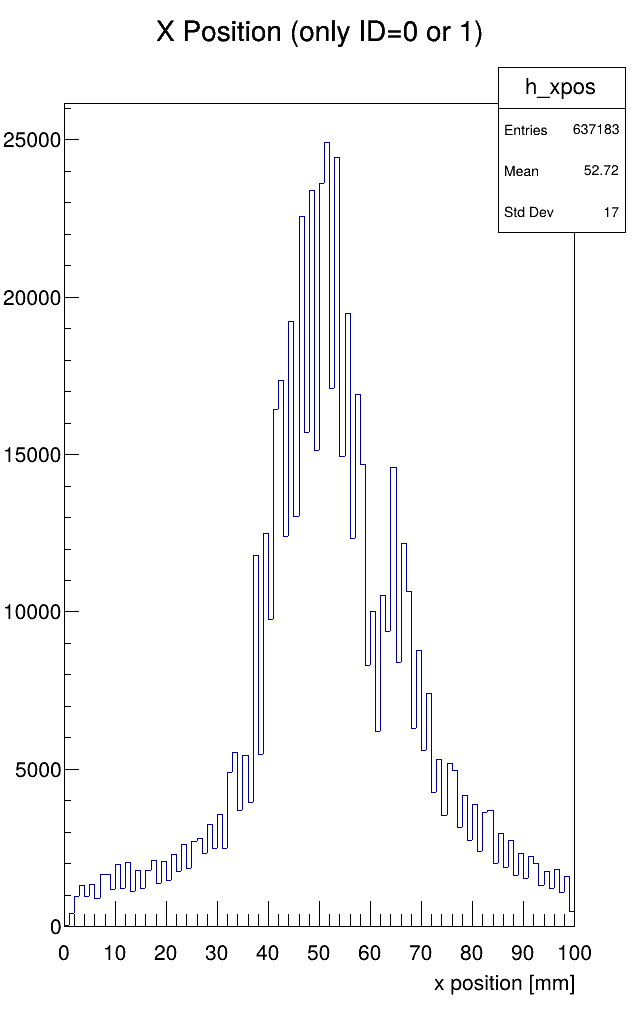
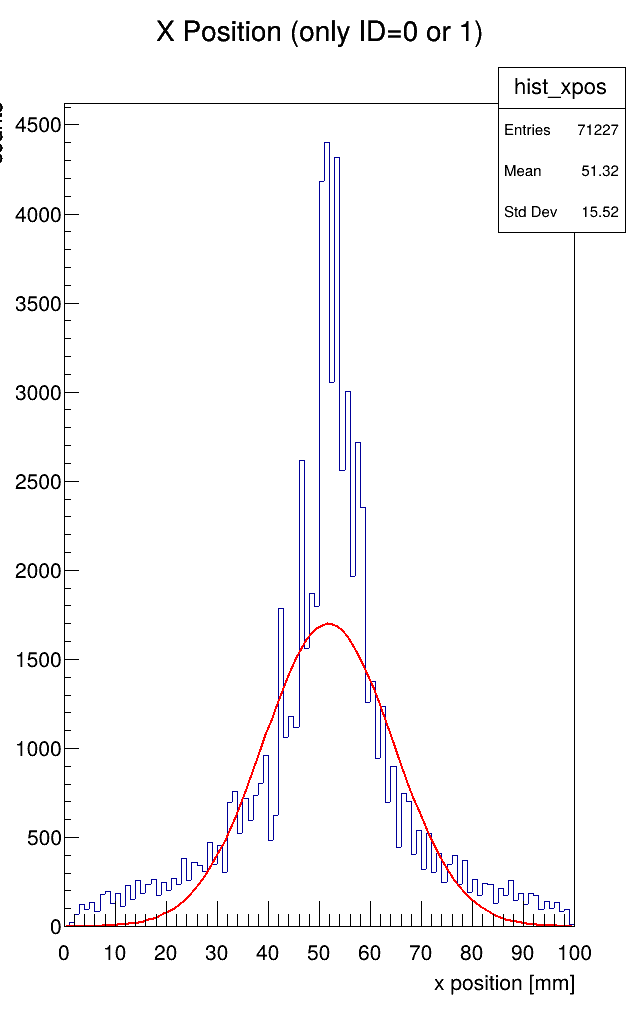
first results (maybe)

diff --git a/plot/output.tex b/plot/output.tex
@@ -1,0 +1,140 @@
+% GNUPLOT: LaTeX picture with Postscript
+\begingroup
+  \makeatletter
+  \providecommand\color[2][]{%
+    \GenericError{(gnuplot) \space\space\space\@spaces}{%
+      Package color not loaded in conjunction with
+      terminal option `colourtext'%
+    }{See the gnuplot documentation for explanation.%
+    }{Either use 'blacktext' in gnuplot or load the package
+      color.sty in LaTeX.}%
+    \renewcommand\color[2][]{}%
+  }%
+  \providecommand\includegraphics[2][]{%
+    \GenericError{(gnuplot) \space\space\space\@spaces}{%
+      Package graphicx or graphics not loaded%
+    }{See the gnuplot documentation for explanation.%
+    }{The gnuplot epslatex terminal needs graphicx.sty or graphics.sty.}%
+    \renewcommand\includegraphics[2][]{}%
+  }%
+  \providecommand\rotatebox[2]{#2}%
+  \@ifundefined{ifGPcolor}{%
+    \newif\ifGPcolor
+    \GPcolortrue
+  }{}%
+  \@ifundefined{ifGPblacktext}{%
+    \newif\ifGPblacktext
+    \GPblacktexttrue
+  }{}%
+  % define a \g@addto@macro without @ in the name:
+  \let\gplgaddtomacro\g@addto@macro
+  % define empty templates for all commands taking text:
+  \gdef\gplbacktext{}%
+  \gdef\gplfronttext{}%
+  \makeatother
+  \ifGPblacktext
+    % no textcolor at all
+    \def\colorrgb#1{}%
+    \def\colorgray#1{}%
+  \else
+    % gray or color?
+    \ifGPcolor
+      \def\colorrgb#1{\color[rgb]{#1}}%
+      \def\colorgray#1{\color[gray]{#1}}%
+      \expandafter\def\csname LTw\endcsname{\color{white}}%
+      \expandafter\def\csname LTb\endcsname{\color{black}}%
+      \expandafter\def\csname LTa\endcsname{\color{black}}%
+      \expandafter\def\csname LT0\endcsname{\color[rgb]{1,0,0}}%
+      \expandafter\def\csname LT1\endcsname{\color[rgb]{0,1,0}}%
+      \expandafter\def\csname LT2\endcsname{\color[rgb]{0,0,1}}%
+      \expandafter\def\csname LT3\endcsname{\color[rgb]{1,0,1}}%
+      \expandafter\def\csname LT4\endcsname{\color[rgb]{0,1,1}}%
+      \expandafter\def\csname LT5\endcsname{\color[rgb]{1,1,0}}%
+      \expandafter\def\csname LT6\endcsname{\color[rgb]{0,0,0}}%
+      \expandafter\def\csname LT7\endcsname{\color[rgb]{1,0.3,0}}%
+      \expandafter\def\csname LT8\endcsname{\color[rgb]{0.5,0.5,0.5}}%
+    \else
+      % gray
+      \def\colorrgb#1{\color{black}}%
+      \def\colorgray#1{\color[gray]{#1}}%
+      \expandafter\def\csname LTw\endcsname{\color{white}}%
+      \expandafter\def\csname LTb\endcsname{\color{black}}%
+      \expandafter\def\csname LTa\endcsname{\color{black}}%
+      \expandafter\def\csname LT0\endcsname{\color{black}}%
+      \expandafter\def\csname LT1\endcsname{\color{black}}%
+      \expandafter\def\csname LT2\endcsname{\color{black}}%
+      \expandafter\def\csname LT3\endcsname{\color{black}}%
+      \expandafter\def\csname LT4\endcsname{\color{black}}%
+      \expandafter\def\csname LT5\endcsname{\color{black}}%
+      \expandafter\def\csname LT6\endcsname{\color{black}}%
+      \expandafter\def\csname LT7\endcsname{\color{black}}%
+      \expandafter\def\csname LT8\endcsname{\color{black}}%
+    \fi
+  \fi
+    \setlength{\unitlength}{0.0500bp}%
+    \ifx\gptboxheight\undefined%
+      \newlength{\gptboxheight}%
+      \newlength{\gptboxwidth}%
+      \newsavebox{\gptboxtext}%
+    \fi%
+    \setlength{\fboxrule}{0.5pt}%
+    \setlength{\fboxsep}{1pt}%
+    \definecolor{tbcol}{rgb}{1,1,1}%
+\begin{picture}(7200.00,5040.00)%
+    \gplgaddtomacro\gplbacktext{%
+      \csname LTb\endcsname%%
+      \put(946,704){\makebox(0,0)[r]{\strut{}$0$}}%
+      \csname LTb\endcsname%%
+      \put(946,1229){\makebox(0,0)[r]{\strut{}$1000$}}%
+      \csname LTb\endcsname%%
+      \put(946,1754){\makebox(0,0)[r]{\strut{}$2000$}}%
+      \csname LTb\endcsname%%
+      \put(946,2279){\makebox(0,0)[r]{\strut{}$3000$}}%
+      \csname LTb\endcsname%%
+      \put(946,2804){\makebox(0,0)[r]{\strut{}$4000$}}%
+      \csname LTb\endcsname%%
+      \put(946,3329){\makebox(0,0)[r]{\strut{}$5000$}}%
+      \csname LTb\endcsname%%
+      \put(946,3854){\makebox(0,0)[r]{\strut{}$6000$}}%
+      \csname LTb\endcsname%%
+      \put(946,4379){\makebox(0,0)[r]{\strut{}$7000$}}%
+      \csname LTb\endcsname%%
+      \put(1078,484){\makebox(0,0){\strut{}$0$}}%
+      \csname LTb\endcsname%%
+      \put(1651,484){\makebox(0,0){\strut{}$10$}}%
+      \csname LTb\endcsname%%
+      \put(2223,484){\makebox(0,0){\strut{}$20$}}%
+      \csname LTb\endcsname%%
+      \put(2796,484){\makebox(0,0){\strut{}$30$}}%
+      \csname LTb\endcsname%%
+      \put(3368,484){\makebox(0,0){\strut{}$40$}}%
+      \csname LTb\endcsname%%
+      \put(3941,484){\makebox(0,0){\strut{}$50$}}%
+      \csname LTb\endcsname%%
+      \put(4513,484){\makebox(0,0){\strut{}$60$}}%
+      \csname LTb\endcsname%%
+      \put(5086,484){\makebox(0,0){\strut{}$70$}}%
+      \csname LTb\endcsname%%
+      \put(5658,484){\makebox(0,0){\strut{}$80$}}%
+      \csname LTb\endcsname%%
+      \put(6231,484){\makebox(0,0){\strut{}$90$}}%
+      \csname LTb\endcsname%%
+      \put(6803,484){\makebox(0,0){\strut{}$100$}}%
+      \put(5086,2804){\makebox(0,0)[l]{\strut{}$\chi^2 = 188.45122$}}%
+    }%
+    \gplgaddtomacro\gplfronttext{%
+      \csname LTb\endcsname%%
+      \put(209,2541){\rotatebox{-270}{\makebox(0,0){\strut{}cummulated events [\#]}}}%
+      \put(3940,154){\makebox(0,0){\strut{}strips [\#]}}%
+      \csname LTb\endcsname%%
+      \put(2266,4206){\makebox(0,0)[r]{\strut{}file u 1:2:3}}%
+      \csname LTb\endcsname%%
+      \put(2266,3986){\makebox(0,0)[r]{\strut{}$f(x)$}}%
+      \csname LTb\endcsname%%
+      \put(3940,4709){\makebox(0,0){\strut{}histrogram of 40cm distance 5cm Al}}%
+    }%
+    \gplbacktext
+    \put(0,0){\includegraphics[width={360.00bp},height={252.00bp}]{output}}%
+    \gplfronttext
+  \end{picture}%
+\endgroup

diff --git a/src/read_data.py b/src/read_data.py
@@ -36,63 +36,106 @@ for i in range(n):
     data_tree.GetEntry(i)
 
 # Create 1D histogram
-h_xpos = ROOT.TH1F("h_xpos", "X Position (only ID=0 or 1);x position [mm];counts", 100, 0, 100)
-h_ypos = ROOT.TH1F("h_ypos", "Y Position (only ID=2 or 3);y position [mm];counts", 100, 0, 100)
+hist_xpos = ROOT.TH1F("hist_xpos", "X Position (only ID=0 or 1);x position [mm];counts", 100, 0, 100)
+hist_ypos = ROOT.TH1F("hist_ypos", "Y Position (only ID=2 or 3);y position [mm];counts", 100, 0, 100)
+hist_charge = ROOT.TH1F("hist_charge", "title", 100, 0, 100)
 
 # Create 2D histogram: average X vs average Y
-h_xy = ROOT.TH2F("h_xy", "Average X vs Average Y;x position [mm];y position [mm]", 100, 0, 100, 100, 0, 100)
+hist_xy = ROOT.TH2F("hist_xy", "Average X vs Average Y;x position [mm];y position [mm]", 100, 0, 100, 100, 0, 100)
+hist_xy_no_avg = ROOT.TH2F("hist_xy_no_avg", "NOT Average X vs Average Y;x position [mm];y position [mm]", 100, 0, 100, 100, 0, 100)
 
 
 # Loop through events
 for entry in raw_tree:
 
     # number of hits per triggered event (abt every 25ns)
-    n_hits = len(entry.apv_id)
+    num_hits = len(entry.apv_id)
 
+    x_pos = 0
     sum_x = 0
-    nhits_x = 0
+    num_hits_x = 0
+    y_pos = 0
     sum_y = 0
-    nhits_y = 0
+    num_hits_y = 0
 
     # sort where a particle hit
-    for i in range(n_hits):
+    for i in range(num_hits):
 
         charge = entry.apv_q[i]
+
+        # print(max(charge))
+
+        # len = 26 = num_hits for first entry
+        # print(len(charge)) # type seems to be vector
 
         # id of the apv which registers event
         apv_id = entry.apv_id[i]
         strip = entry.mm_strip[i]
 
-        # x
-        if apv_id in [0,1]:
-            x_pos = strip * 100. / 256.
-            h_xpos.Fill(x_pos)
-            sum_x += x_pos
-            nhits_x += 1
-        # y
-        if apv_id in [2,3]:
-            y_pos = ((strip + 128) % 256) * 100. / 256.
-            #y_pos = strip * 100.0 / 256
-            h_ypos.Fill(y_pos)
-            sum_y += y_pos
-            nhits_y += 1
+        # to filter noise. this value can be adjusted to get a desired gaussian profile
+        # TODO is general threshold for charge (i.e. count only when charge is within x std_dev) better than fixed value??
+        #if max(charge) > 4 * np.std(charge):
+        if max(charge) > 1300:
+            # x
+            if apv_id in [0,1]:
+                x_pos = strip * 100. / 256.
+                hist_xpos.Fill(x_pos) # counts events that happen at a certain x position
+                sum_x += x_pos * max(charge)
+                num_hits_x += max(charge)
+                # no weight
+                #sum_x += x_pos
+                #num_hits_x += 1
+            # y
+            if apv_id in [2,3]:
+                y_pos = ((strip + 128) % 256) * 100. / 256.
+                #y_pos = strip * 100.0 / 256
+                hist_ypos.Fill(y_pos)
+                sum_y += y_pos * max(charge)
+                num_hits_y += max(charge)
+                #sum_y += y_pos
+                #num_hits_y += 1
 
     # average over all events
-    if nhits_x > 0 and nhits_y > 0:
-        average_x = sum_x / nhits_x
-        average_y = sum_y / nhits_y
-        h_xy.Fill(average_x, average_y)
+    # TODO weigh hits 
+    ## weigh with charge seems to make not much of a difference
+    if num_hits_x > 0 and num_hits_y > 0:
+        # average position which is hit, i.e. hit at 2 and hit at 10 will be hit at 6 = (2+10)/2
+        # TODO actually don't average this??
+        average_x = sum_x / num_hits_x
+        average_y = sum_y / num_hits_y
+        hist_xy.Fill(average_x, average_y)
 
 # Draw the histogram
+# TODO TeX font (computer modern serif)
+# TODO fit gaussian curve to x and y
+
+# fits
+fit_x = ROOT.TF1("fit_x", "gaus", 0, 100)
+hist_xpos.Fit("fit_x")
+fit_y = ROOT.TF1("fit_y", "gaus", 0, 100)
+hist_ypos.Fit("fit_y")
+
 c = ROOT.TCanvas("c", "Canvas", 800, 600)
-h_xpos.Draw()
+hist_xpos.Draw()
 c.SaveAs("x_position_histogram.png")  # Optional: save plot
 
-h_ypos.Draw()
+hist_ypos.Draw()
 c.SaveAs("y_position_histogram.png")  # Optional: save plot
 
 # 2D hit map
-h_xy.Draw("COLZ")
+hist_xy.Draw("COLZ")
 c.SaveAs("xy_hitmap.png")
+
+#hist_xy_no_avg.Draw("COLZ")
+#c.SaveAs("xy_hitmap_no_avg.png")
+
+# save bin centers, contents, and errors to file
+with open("y_histogram_data.txt", "w") as f:
+    f.write("# BinCenter  BinContent  BinError\n")
+    for i in range(1, hist_ypos.GetNbinsX() + 1):
+        bin_center = hist_ypos.GetBinCenter(i)
+        bin_content = hist_ypos.GetBinContent(i)
+        bin_error = hist_ypos.GetBinError(i)
+        f.write(f"{bin_center}  {bin_content}  {bin_error}\n")
 
 file.Close()

diff --git a/src/multiple_scattering.py b/src/multiple_scattering.py
@@ -16,10 +16,11 @@ x0 = np.array([1.436, 8.897]) # cm
 # thickness of material
 x = np.array([.2, 5]) # cm
 
+# distance target detector
+d = 40 # cm
+
 theta = np.ndarray(shape=(2,))
-first_sigma = np.ndarray(shape=(2,))
-second_sigma = np.ndarray(shape=(2,))
-third_sigma = np.ndarray(shape=(2,))
+distance_target_detector = np.ndarray(shape=(2,))
 
 material = ["Copper", "Aluminium"]
 
@@ -30,19 +31,16 @@ for i in range(2):
 
     print(material[i], x[i], "[cm]")
 
-    # the unit of the angle is still unsure. the unit might from the formula might be rad and not degree
     print("angle: ", theta[i], "[rad]")
     print("angle: ", theta[i]*180/np.pi, "[degree]")
 
+    #print("adjacent side length: ", np.tan(theta[i]) * d, "[cm]")
+          
     # 10 cm², roughly 4x4 cm² for error
     # np.tan takes rad as argument. if theta is rad then this works
-    first_sigma[i] = 2./np.tan(1. * theta[i])
-    second_sigma[i] = 2./np.tan(2. * theta[i])
-    third_sigma[i] = 2./np.tan(3. * theta[i])
-    print("first sigma: ", first_sigma[i], "[cm]")
-#    print("second sigma: ", second_sigma[i], "[cm]")
-#    print("third sigma: ", third_sigma[i], "[cm]")
-    print("distance target-detector: ", third_sigma[i], "[cm]")
+    #distance_target_detector[i] = 2./np.tan(3. * theta[i])
+    #print("distance target-detector (theory): ", distance_target_detector[i], "[cm]")
+
     print("----------")
 
 ''' testing

diff --git a/plot/plot.tex b/plot/plot.tex
@@ -3,7 +3,5 @@
 \usepackage{xcolor}
 \begin{document}
 \pagenumbering{gobble}
-\centering\include{output_0.tex}
-\centering\include{output_1.tex}
-\centering\include{output_2.tex}
+\centering\include{output.tex}
 \end{document}
